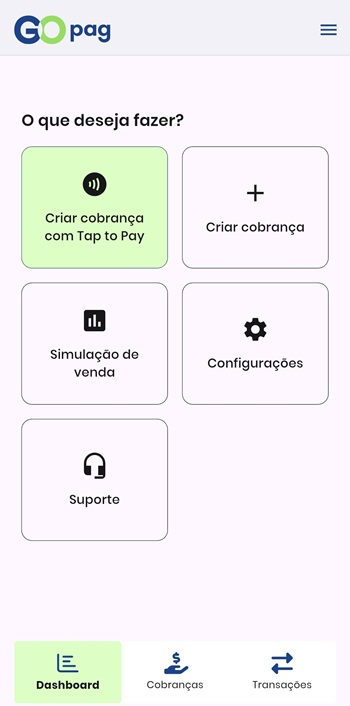
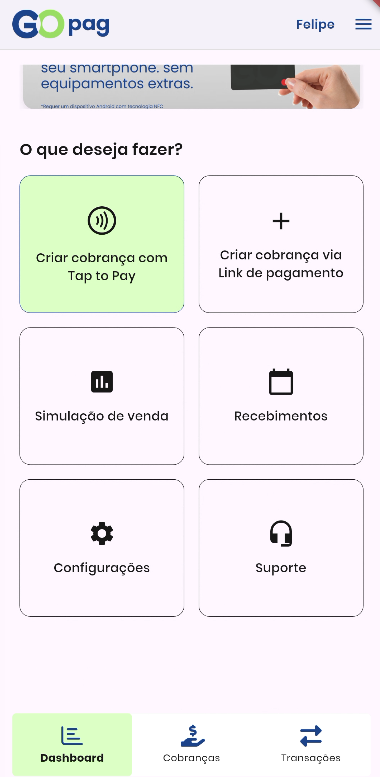
ajsutes na documentação

diff --git a/APLICATIVO_GOPAG/DASHBOARD/README.md b/APLICATIVO_GOPAG/DASHBOARD/README.md
@@ -2,7 +2,7 @@
 
 ## 🔹 Informações Principais
 
-Na primeira seção da tela inicial você visualiza o saldo disponível de forma rápida e clara. Temos também atalhos para visualizar as **Transações Aprovadas**, **Transações Pendentes**, **Futuras Novas**.
+Na primeira seção da tela inicial você visualiza o saldo disponível de forma rápida e clara. Temos também atalhos para visualizar as **Transações Aprovadas**, **Transações Pendentes**, **Transações canceladas**, **Transações canceladas**, **Transações falhadas**.
 
 ![](../../.gitbook/assets/home_page.jpg)
 
@@ -11,9 +11,10 @@ Na primeira seção da tela inicial você visualiza o saldo disponível de forma
 A área de serviços reúne atalhos para as principais funcionalidades do aplicativo:
 
 * **Tap to Pay** — cobrar com dispositivo compatível;
-* **Criar cobrança** — emitir links ou cobranças avulsas;
+* **Criar cobrança** — emitir links ou cobranças avulsas;![home_page.JPG](../../../../../Desktop/manual-gopag/fotos/home_page.JPG)
 * **Simular venda** — testar fluxo de vendas;
+* **Recebimentos** — vêr o fluxo financeiro por data;
 * **Configurações** — ajustar dados da conta;
 * **Suporte** — abrir chamados e obter ajuda.
 
-![](../../.gitbook/assets/dashboard_servicos.jpg)
+![](../../.gitbook/assets/dashboard_servicos.jpg) 

diff --git a/APLICATIVO_GOPAG/LOGIN_CADASTRO/README.md b/APLICATIVO_GOPAG/LOGIN_CADASTRO/README.md
@@ -11,3 +11,25 @@ Para criar sua conta no aplicativo GoPag, toque em **Cadastro** e preencha os da
 Para acessar sua conta, informe o e‑mail e a senha cadastrados. Caso tenha esquecido a senha, utilize a opção **Esqueceu a senha? Clique aqui** para redefini‑la.
 
 ![](../../.gitbook/assets/tela_login.jpg)
+
+## 🔹 Trocar de Conta no GoPag
+
+Caso deseje acessar outra conta no aplicativo, você pode realizar a troca de forma simples e rápida.
+Para isso, toque nos três pontinhos no canto superior direito da tela e selecione a opção Gerenciar usuários.
+
+![](../../.gitbook/assets/mostrar3.png)
+
+Em seguida, você poderá adicionar um novo usuário ou remover uma conta existente, conforme necessário.
+
+![](../../.gitbook/assets/gerenciarUser.png)
+
+Após clicar em adicionar novo usuário, você será direcionado para a tela de login, onde deverá inserir os dados da conta desejada.
+
+![](../../.gitbook/assets/addConta.png)
+
+Na própria tela de login, também é possível gerenciar e selecionar a conta que deseja acessar.
+
+![](../../.gitbook/assets/irContas.png)
+
+
+

diff --git a/APLICATIVO_GOPAG/RECEBIMENTOS/README.MD b/APLICATIVO_GOPAG/RECEBIMENTOS/README.MD
@@ -1,0 +1,24 @@
+## 🔹 Recebimentos
+
+Nesta tela, você pode visualizar suas transações organizadas por data, facilitando o acompanhamento das movimentações ao longo do tempo.  
+É possível alternar entre as visualizações de mês e semana, além de utilizar a opção Hoje para retornar rapidamente à data atual.  
+Ao selecionar um dia específico, você poderá identificar o status das transações por meio das cores indicadas na legenda abaixo.
+
+As cores representam:
+
+* **Saldos atual** 
+
+* **Transferência confirmada**  
+
+* **Transações em atraso**  
+
+* **Aguardando pagamento**  
+
+* **Transferido/sacado**  
+
+* **Pendente**  
+
+
+Essa visualização permite um controle mais claro e organizado das suas movimentações financeiras.
+
+![](../../.gitbook/assets/calendario.png)
